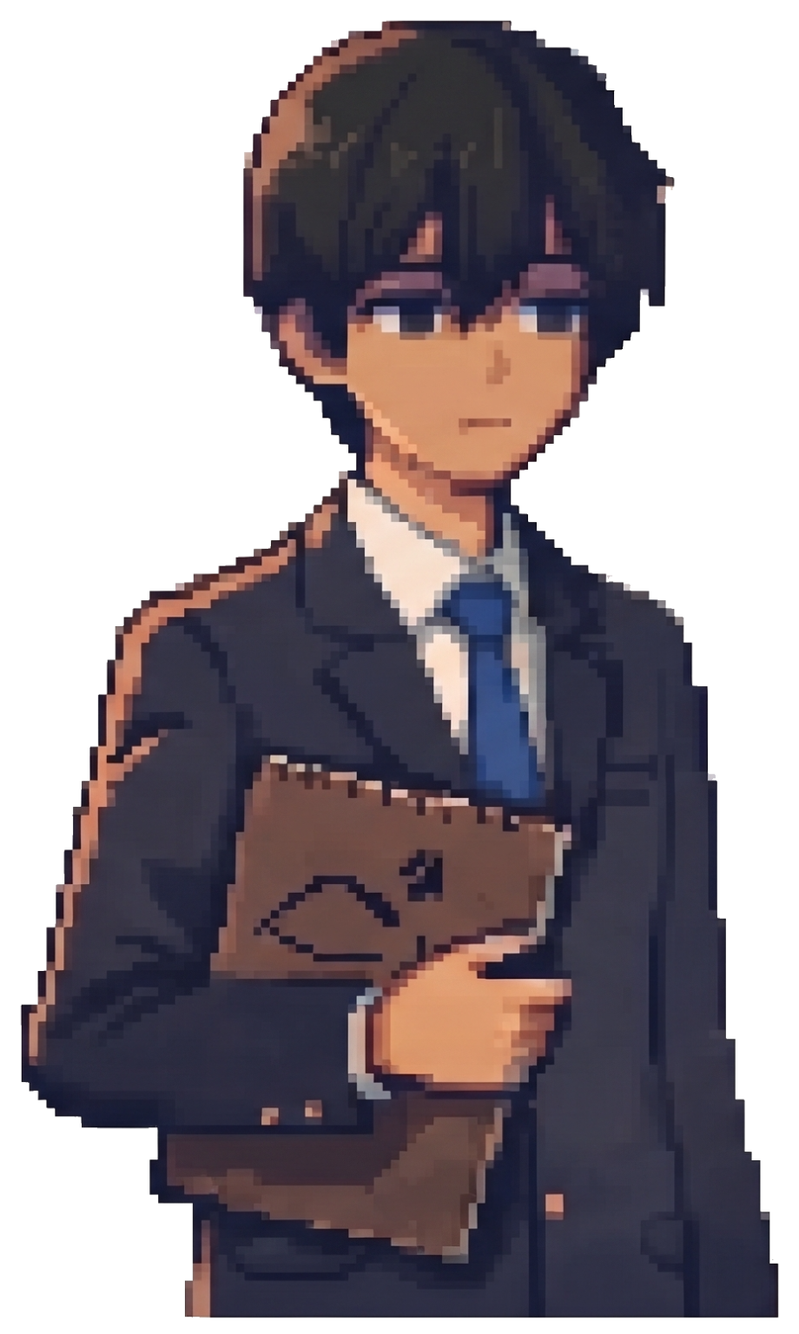
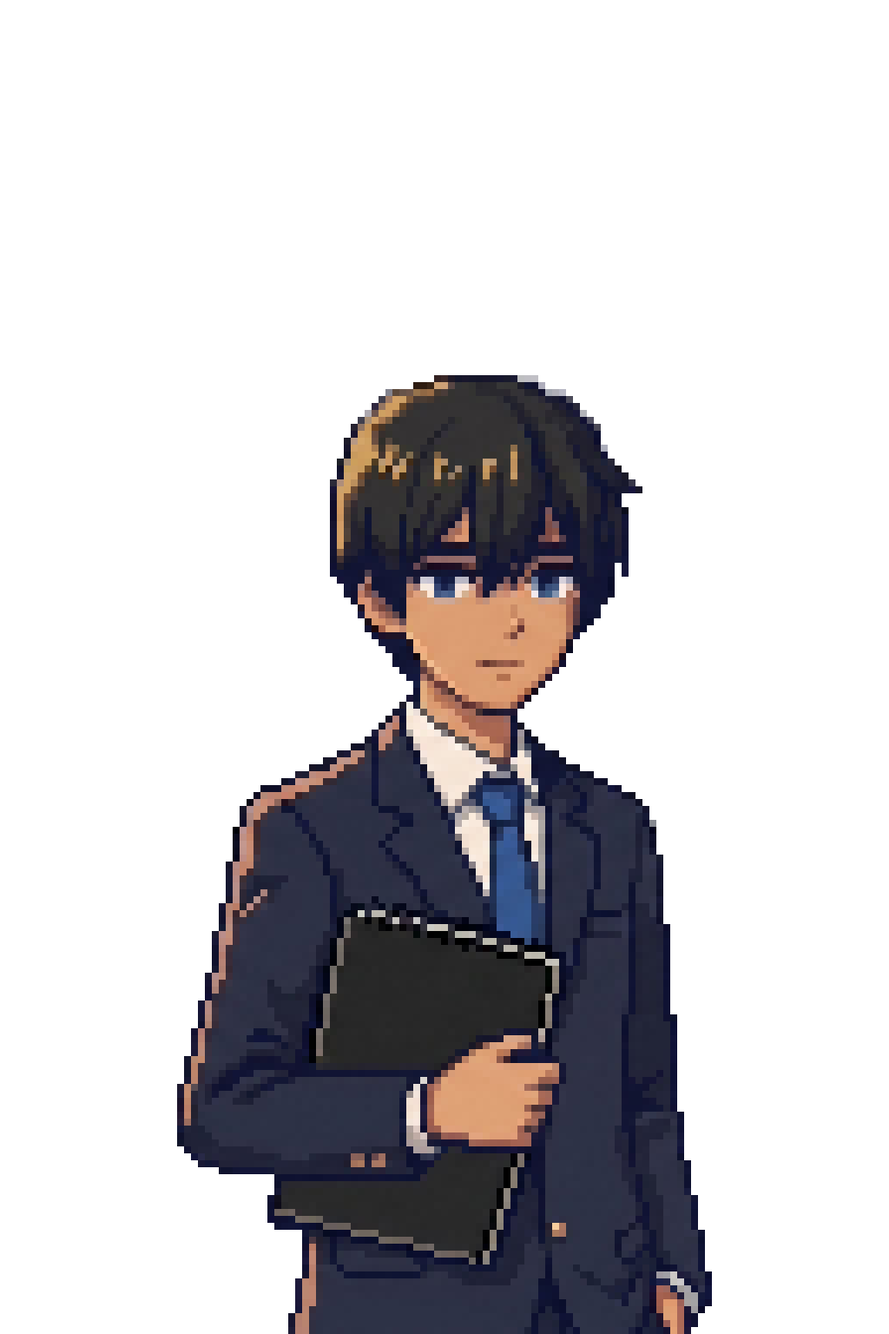
新しい立ち絵・ユメクイ・夢の住人の絵を入れ、バトルを「見わたす絵」と「寄った絵」に分ける
- 立ち絵 53 枚 (ハル・リク・ミオ・カナ・アキ先生・父・リクの父・ミチル・ヒカリ) と
  ユメクイ (bak.png・gakufume.png)、夢の住人 (女王ミオ・審査員カナ・ハルの人形) の絵を入れる
- ハルの泣き顔は入れない (古い haru_cry.png を消す)。描いていない表情は neutral で出す
- 父 = haru_father、リクの父 = riku_father。ユメクイは img/yumekui/<id>.png
- 新しい立ち絵は上が空いているので、大きめに出して頭の高さをそろえる
- バトル: 始まりとコマンド選択中は全員を見わたす絵 (控えの仲間も後ろに小さく、ねらう敵に印)、
  技や攻撃のあいだは仲間 1 体とねらった敵 1 体に寄る。バクとガクフメは大きい絵で出す

diff --git a/src/view/draw.js b/src/view/draw.js
@@ -268,15 +268,82 @@ function drawHal(ctx, state, px, py, walk) {
     ctx.restore();
 }
 
+// バトルの 絵 (11/12 ユーザー指定):
+//   ・始まりと コマンドを 選んでいる あいだは 全員を 見わたす 絵 (view.focus = null)。
+//     左に 仲間 (前に 出ている 1 体を 大きく、控えは 後ろに 小さく)、右に 敵を 並べる
+//   ・技や 攻撃の あいだは 仲間 1 体と 敵 1 体 (ねらった 敵) だけを 大きく 映す (view.focus = 敵の 番号)
 export function drawBattle(ctx, view, time) {
     drawSky(ctx, time);
+    if (view.focus == null) drawOverview(ctx, view, time);
+    else drawCloseUp(ctx, view, time);
+
+    for (const pop of view.pops) {
+        const left = (pop.until - time) / 700;
+        if (left <= 0) continue;
+        const at = popAnchor(view, pop);
+        ctx.fillStyle = pop.color;
+        ctx.font = 'bold 14px sans-serif';
+        ctx.textAlign = 'center';
+        ctx.fillText(pop.text, at.x, at.y - (1 - left) * 18);
+    }
+}
+
+// 描いた 大きい 絵 (public/img)。読み込めるまでは ドット絵で 描く。faces = 絵の 向き
+const HD_ART = {
+    bak: { src: 'img/yumekui/bak.png', faces: 'left' },
+    gakufume: { src: 'img/yumekui/gakufume.png', faces: 'front' }
+};
+const hdCache = new Map();
+function hdArt(name) {
+    const art = HD_ART[name];
+    if (!art || typeof Image === 'undefined') return null;
+    if (!hdCache.has(name)) {
+        const image = new Image();
+        image.src = art.src;
+        hdCache.set(name, image);
+    }
+    const image = hdCache.get(name);
+    return image.complete && image.naturalWidth ? { image, faces: art.faces } : null;
+}
+
+// 控えの 仲間 (前に 出ている 1 体 以外)
+function benchOf(view) {
+    return (view.party ?? []).filter((unit) => unit.sprite !== view.ally);
+}
+
+// 絵を 箱に 収まる 大きさに する。ドット絵は 0.5 きざみで 拡大 (most 倍まで)
+function fit(image, maxW, maxH, pixel, most = 4) {
+    const w = image.naturalWidth || image.width;
+    const h = image.naturalHeight || image.height;
+    let scale = Math.min(maxW / w, maxH / h, pixel ? most : 1);
+    if (pixel && scale >= 1) scale = Math.floor(scale * 2) / 2;
+    return { w: Math.round(w * scale), h: Math.round(h * scale) };
+}
+
+function drawFloorShadow(ctx, x, y, rx, ry) {
     ctx.fillStyle = 'rgba(10, 12, 48, 0.55)';
     ctx.beginPath();
-    ctx.ellipse(205, 132, 90, 16, 0, 0, Math.PI * 2);
-    ctx.ellipse(70, 158, 60, 12, 0, 0, Math.PI * 2);
+    ctx.ellipse(x, y, rx, ry, 0, 0, Math.PI * 2);
     ctx.fill();
+}
 
-    // 敵: 1 体なら まん中、複数なら 横に 並べる (倒れた 敵は 消える)
+// 見わたす 絵: 全員を 小さめに
+function drawOverview(ctx, view, time) {
+    drawFloorShadow(ctx, 205, 132, 90, 16);
+    drawFloorShadow(ctx, 62, 160, 60, 12);
+
+    // 控えの 仲間: 後ろに 小さく、少し 暗く (倒れた 仲間は もっと 暗く)
+    benchOf(view).forEach((unit, i) => {
+        const image = sprite(unit.sprite);
+        const size = fit(image, 36, 30, true, 2);
+        ctx.save();
+        ctx.globalAlpha = unit.hp > 0 ? 0.8 : 0.35;
+        drawFloorShadow(ctx, 26 + i * 44, 98, 18, 4);
+        ctx.drawImage(image, Math.round(26 + i * 44 - size.w / 2), 98 - size.h, size.w, size.h);
+        ctx.restore();
+    });
+
+    // 敵: 1 体なら まん中、複数なら 横に 並べる (倒れた 敵は 消える)。ねらっている 敵の 下に 印
     view.foes.forEach((name, i) => {
         if (view.down[i]) return;
         const foe = sprite(name);
@@ -285,22 +352,59 @@ export function drawBattle(ctx, view, time) {
         const shake = view.foeHit[i] > time ? Math.sin(time / 20) * 4 : 0;
         const y = 130 - foe.height * scale + Math.sin(time / 500 + i) * 2;
         ctx.drawImage(foe, Math.round(foeX(view, i) - (foe.width * scale) / 2 + shake), Math.round(y), foe.width * scale, foe.height * scale);
+        if (many && i === view.target) {
+            const x = Math.round(foeX(view, i));
+            ctx.fillStyle = '#ffc95e';
+            ctx.beginPath();
+            ctx.moveTo(x - 4, 136);
+            ctx.lineTo(x + 4, 136);
+            ctx.lineTo(x, 141);
+            ctx.fill();
+        }
     });
 
-    // 仲間: 大きい絵 (幅 24 ドットより 大きい) は 3 倍で、敵と 重ならないように する
-    const bak = sprite(view.ally);
-    const bakShake = view.allyHit > time ? Math.sin(time / 20) * 4 : 0;
-    const allyScale = bak.width > 24 ? 3 : 4;
-    ctx.drawImage(bak, Math.round(26 + bakShake), 172 - bak.height * allyScale, bak.width * allyScale, bak.height * allyScale);
+    // 前に 出ている 仲間: 手前の 左。敵と 重ならない 幅に 収める
+    const ally = sprite(view.ally);
+    const size = fit(ally, 84, 72, true);
+    const shake = view.allyHit > time ? Math.sin(time / 20) * 4 : 0;
+    ctx.drawImage(ally, Math.round(20 + shake), 166 - size.h, size.w, size.h);
+}
 
-    for (const pop of view.pops) {
-        const left = (pop.until - time) / 700;
-        if (left <= 0) continue;
-        ctx.fillStyle = pop.color;
-        ctx.font = 'bold 14px sans-serif';
-        ctx.textAlign = 'center';
-        ctx.fillText(pop.text, pop.x, pop.y - (1 - left) * 18);
+// 寄った 絵: 仲間 1 体 (左) と 敵 1 体 (右) を 大きく
+function drawCloseUp(ctx, view, time) {
+    drawFloorShadow(ctx, 236, 140, 70, 12);
+    drawFloorShadow(ctx, 80, 168, 66, 12);
+
+    const i = view.focus;
+    if (!view.down[i] && view.foes[i]) {
+        const hd = hdArt(view.foes[i]);
+        const image = hd?.image ?? sprite(view.foes[i]);
+        const size = fit(image, 150, 116, !hd, 6);
+        const shake = view.foeHit[i] > time ? Math.sin(time / 20) * 4 : 0;
+        const y = 138 - size.h + Math.sin(time / 500 + i) * 2;
+        ctx.drawImage(image, Math.round(236 - size.w / 2 + shake), Math.round(y), size.w, size.h);
     }
+
+    const hd = hdArt(view.ally);
+    const image = hd?.image ?? sprite(view.ally);
+    const size = fit(image, 140, 110, !hd, 6);
+    const shake = view.allyHit > time ? Math.sin(time / 20) * 4 : 0;
+    const x = Math.round(80 - size.w / 2 + shake);
+    const y = 166 - size.h;
+    ctx.save();
+    if (hd?.faces === 'left') {   // 仲間は 右 (敵の ほう) を 向く
+        ctx.translate(x + size.w, 0);
+        ctx.scale(-1, 1);
+        ctx.drawImage(image, 0, y, size.w, size.h);
+    } else ctx.drawImage(image, x, y, size.w, size.h);
+    ctx.restore();
+}
+
+// 数字の 出る 場所 (仲間か 敵か と、今の 絵で 決める)。pop.foe = 敵の 番号 (仲間なら 無し)
+function popAnchor(view, pop) {
+    if (pop.foe == null) return view.focus == null ? { x: 62, y: 92 } : { x: 80, y: 70 };
+    if (view.focus == null) return { x: foeX(view, pop.foe), y: pop.high ? 40 : 60 };
+    return { x: 236, y: pop.high ? 22 : 40 };
 }
 
 // 敵の 横の 位置 (1 体なら 205、複数なら 並べる)

diff --git a/src/main.js b/src/main.js
@@ -19,7 +19,7 @@ import { ALLIES, FOES } from './data/units.js';
 import { LINES } from './scenes/story.js';
 import { createInput } from './view/input.js';
 import { createUi } from './view/ui.js';
-import { drawBattle, drawField, drawMorning, drawShadow, drawSky, foeX } from './view/draw.js';
+import { drawBattle, drawField, drawMorning, drawShadow, drawSky } from './view/draw.js';
 import { drawCalendar, drawLapse } from './view/time.js';
 import { drawEncounter, encounterTheme } from './view/encounter.js';
 import { createPainting, drawPainting, finishPainting, updatePainting } from './view/painting.js';
@@ -514,12 +514,15 @@ async function fight(object) {
     jinglePlaying = null;   // 前の 戦闘の 短い曲が 残っていたら 止めて、戦闘の 曲へ
     sound.stopJingles();
     mode = 'battle';
-    battleView = { foes: foeList.map((f) => f.sprite), foeIds: foeList.map((f) => f.id), down: [], ally: battle.ally.sprite, foeHit: [], allyHit: 0, pops: [] };
+    battleView = { foes: foeList.map((f) => f.sprite), foeIds: foeList.map((f) => f.id), down: [], ally: battle.ally.sprite, party: battle.party, focus: null, target: battle.foe?.index ?? 0, foeHit: [], allyHit: 0, pops: [] };
     ui.hideHud();
     ui.status(battle);
     await ui.fade(false);
 
     while (!battle.over) {
+        // コマンドを 選ぶ あいだは 全員を 見わたす 絵
+        battleView.focus = null;
+        battleView.target = battle.foe?.index ?? 0;
         const names = aliveFoes(battle).map((f) => f.name).join('と');
         await ui.say('', `${names}が 立ちはだかる。どうする？`, { wait: 0 });
         // たたかう / まもる / アイテム / にげる。技は「たたかう」の中から 選ぶ
@@ -530,7 +533,11 @@ async function fight(object) {
         if (top === 'guard') events = act(battle, 'guard');
         if (top === 'item') events = await chooseItem(battle);
         if (top === 'run') events = act(battle, 'run');
-        if (events) await play(battle, events);
+        if (events) {
+            // 技や 攻撃の あいだは 仲間 1 体と ねらった 敵 1 体に 寄る
+            battleView.focus = battle.foe?.index ?? 0;
+            await play(battle, events);
+        }
     }
 
     // 勝ち・負け: 戦闘が 終わった その場で 戦闘の 曲を 止めて 短い曲 (M25 / M26)。場面の 曲は 鳴り終わってから
@@ -609,10 +616,13 @@ async function play(battle, events) {
     for (const event of events) {
         battleSound(event);
         if (event.t === 'swap') battleView.ally = event.sprite;
+        // 寄った 絵で 映す 敵: 攻撃を 受けた 敵、または 攻撃してきた 敵
+        if (event.t === 'hit' && event.target === 'foe' && event.index != null) battleView.focus = event.index;
+        if (event.t === 'hit' && event.target === 'ally' && event.from != null) battleView.focus = event.from;
         if (event.t === 'say') await ui.say('', event.text, { wait: NOTE_MS });
         if (event.t === 'hit') showHit(event);
-        if (event.t === 'heal') pop(`+${event.amount}`, 70, 92, '#7fe0a8');
-        if (event.t === 'shake') pop(`ゆらぎ +${event.gain}`, foeX(battleView, event.index ?? 0), 40, '#ffc95e');
+        if (event.t === 'heal') pop(`+${event.amount}`, null, '#7fe0a8');
+        if (event.t === 'shake') pop(`ゆらぎ +${event.gain}`, event.index ?? 0, '#ffc95e', true);
         if (event.t === 'chance') await ui.say('', `${event.name}の気持ちが 大きく揺れている！ 本音を言い当てるチャンスだ！（「たたかう」から 選べる）`, { wait: NOTE_MS * 2 });
         if (event.t === 'down') {
             battleView.down[event.index] = true;
@@ -646,11 +656,12 @@ function showHit(event) {
     if (isFoe) battleView.foeHit[event.index ?? 0] = now + 300;
     else battleView.allyHit = now + 300;
     const color = event.aff > 1 ? '#ffc95e' : '#ffffff';
-    pop(String(event.amount), isFoe ? foeX(battleView, event.index ?? 0) : 70, isFoe ? 60 : 92, color);
+    pop(String(event.amount), isFoe ? event.index ?? 0 : null, color);
 }
 
-function pop(text, x, y, color) {
-    battleView.pops.push({ text, x, y, color, until: performance.now() + 700 });
+// 数字を 出す。foe = 敵の 番号 (仲間なら null)、high = 上の ほうに 出す。場所は 今の 絵で 決まる (view/draw.js)
+function pop(text, foe, color, high = false) {
+    battleView.pops.push({ text, foe, high, color, until: performance.now() + 700 });
 }
 
 async function finish(battle, object, foe) {

diff --git a/src/core/portraits.js b/src/core/portraits.js
@@ -1,8 +1,8 @@
 // 会話の 立ち絵 (仕様書「会話画面」11/11 決定): 一度に 2 人まで。
 //   左 = 主人公の側 (ハル、または バクや 救った仲間)、右 = 話している 相手 (左右反転して 左向き)。
 //   絵の ファイル名は 素材制作仕様書「置き場所とファイル名」: 人は img/chara/<名前>_<表情>.png、
-//   ユメクイは img/yumekui/<id>_normal.png。ファイルが 無い人は 出さない
-export const EXPRESSIONS = ['neutral', 'smile', 'troubled', 'angry', 'cry', 'surprised'];
+//   ユメクイは img/yumekui/<id>.png、夢の住人は img/enemy/<id>.png。絵の 無い人は 出さない
+export const EXPRESSIONS = ['neutral', 'smile', 'troubled', 'angry', 'cry', 'surprised', 'sad', 'frustrated', 'cloudy', 'silent', 'eroded', 'guide', 'resolve', 'profile', 'profile_kizuna'];
 
 // セリフの 話し手の 名前 → 絵の 名前
 export const CHARA_FILES = {
@@ -10,7 +10,8 @@ export const CHARA_FILES = {
     'リク': 'riku',
     'ミオ': 'mio',
     'カナ': 'kana',
-    '父': 'father',
+    '父': 'haru_father',
+    'リクの父': 'riku_father',
     'トメ': 'tome',
     'ケン': 'ken',
     'アキ先生': 'aki',
@@ -18,11 +19,30 @@ export const CHARA_FILES = {
     'ミチル': 'michiru',
     'ヒカリ': 'hikari'
 };
+
+// 描いてある 表情 (11/12 の 立ち絵)。ここに 無い 表情は neutral で 出す。
+//   ハルの 泣き顔 (cry) は ゲームに 入れない (11/12 ユーザー指定)
+export const FACES = {
+    haru: ['neutral', 'smile', 'troubled', 'angry', 'surprised', 'profile', 'profile_kizuna'],
+    riku: ['neutral', 'smile', 'troubled', 'angry', 'cry', 'surprised', 'profile', 'profile_kizuna'],
+    mio: ['neutral', 'smile', 'troubled', 'angry', 'surprised', 'profile', 'profile_kizuna'],
+    kana: ['neutral', 'smile', 'angry', 'surprised', 'frustrated', 'profile', 'profile_kizuna'],
+    aki: ['neutral', 'smile', 'angry', 'surprised', 'cloudy'],
+    haru_father: ['neutral', 'smile', 'silent'],
+    riku_father: ['neutral', 'smile', 'sad'],
+    hikari: ['neutral', 'smile', 'angry', 'surprised', 'sad'],
+    michiru: ['neutral', 'smile', 'surprised', 'sad', 'eroded', 'guide', 'resolve']
+};
+
 export const YUMEKUI_FILES = {
     'バク': 'bak',
-    'ガクフメ': 'gakufume',
-    'トゲメトロ': 'togemetoro',
-    'ヒマワリオン': 'himawarion'
+    'ガクフメ': 'gakufume'
+};
+// 夢の 住人 (階層で 話しかける ゆがんだ 夢主)
+export const RESIDENT_FILES = {
+    '独奏の女王ミオ': 'queen_mio',
+    '審査員カナ': 'judge_kana',
+    'ハルの人形': 'haru_doll'
 };
 const ALLY_IDS = { 'ガクフメ': 'gakufume', 'トゲメトロ': 'togemetoro', 'ヒマワリオン': 'himawarion' };
 
@@ -34,10 +54,23 @@ export function isHeroSide(name, allies = []) {
 
 // 絵の 場所 (無い 名前は null)
 export function portraitPath(name, expression = 'neutral') {
-    const face = EXPRESSIONS.includes(expression) ? expression : 'neutral';
-    if (CHARA_FILES[name]) return `img/chara/${CHARA_FILES[name]}_${face}.png`;
-    if (YUMEKUI_FILES[name]) return `img/yumekui/${YUMEKUI_FILES[name]}_normal.png`;
+    const file = CHARA_FILES[name];
+    if (file) {
+        const faces = FACES[file];
+        if (!faces) return null;
+        return `img/chara/${file}_${faces.includes(expression) ? expression : 'neutral'}.png`;
+    }
+    if (YUMEKUI_FILES[name]) return `img/yumekui/${YUMEKUI_FILES[name]}.png`;
+    if (RESIDENT_FILES[name]) return `img/enemy/${RESIDENT_FILES[name]}.png`;
     return null;
+}
+
+// 絵の 種類 (表示の 大きさを 変える): 人 / ユメクイ / 夢の住人
+export function portraitKind(path) {
+    if (!path) return null;
+    if (path.startsWith('img/yumekui/')) return 'yumekui';
+    if (path.startsWith('img/enemy/')) return 'resident';
+    return 'chara';
 }
 
 // 会話の 始めは だれも いない (地の文だけの 場面では 立ち絵を 出さない)

diff --git a/src/style.css b/src/style.css
@@ -118,6 +118,16 @@ canvas {
 .portrait[hidden] { display: none; }
 #portrait-left { left: 1%; }
 #portrait-right { right: 1%; transform: scaleX(-1); }
+/* 11/12 の 立ち絵 (1024×1536) は 上の 3 割ほどが 空いているので、大きめに 出して 頭の 高さを そろえる。
+   体の 下の ほうは メッセージ枠の 後ろに 隠れる */
+.portrait[data-kind="chara"] { height: 112%; bottom: -8%; }
+#portrait-left[data-kind="chara"] { left: -6%; }
+#portrait-right[data-kind="chara"] { right: -6%; }
+/* ユメクイと 夢の住人は 横長。メッセージ枠の 上に 乗せる */
+.portrait[data-kind="yumekui"] { height: auto; width: 34%; bottom: 30%; }
+#portrait-left[data-kind="yumekui"] { transform: scaleX(-1); }   /* バクの 絵は 左向き。左に 立つときは 右 (相手) を 向く */
+#portrait-right[data-kind="yumekui"] { transform: none; }
+.portrait[data-kind="resident"] { height: 62%; bottom: 28%; }
 
 #speaker {
     color: var(--kokoro);

diff --git a/src/view/ui.js b/src/view/ui.js
@@ -1,3 +1,5 @@
+import { portraitKind } from '../core/portraits.js';
+
 const $ = (id) => document.getElementById(id);
 const TYPE_MS = 28;
 
@@ -110,6 +112,7 @@ export function createUi(input, sounds = {}) {
             const who = stage?.[side];
             const path = who ? pathOf(who.name, who.expression) : null;
             el.dataset.want = path ?? '';
+            el.dataset.kind = portraitKind(path) ?? '';
             if (!path || missing.has(path)) {
                 el.hidden = true;
                 continue;

diff --git a/README.md b/README.md
@@ -13,8 +13,9 @@
 | 曲 | `public/audio/bgm/` | `M06_town.ogg`（同じ名前の `.mp3` も）。一覧は `src/data/sounds.js` |
 | 効果音 | `public/audio/se/` | `SE21_hit.ogg` など |
 | セリフの声 | `public/audio/voice/` | `haru.ogg`・`narration.ogg` など |
-| 立ち絵（キャラ） | `public/img/chara/` | `haru_neutral.png`（表情は neutral・smile・troubled・angry・cry・surprised）、横顔は `haru_profile.png`。背景が透明の PNG |
-| 立ち絵（ユメクイ） | `public/img/yumekui/` | `gakufume_normal.png`・`gakufume_scream.png`・`gakufume_saved.png` など |
+| 立ち絵（キャラ） | `public/img/chara/` | `haru_neutral.png`・`haru_father_smile.png`・`riku_father_sad.png` など。1024×1536、背景が透明の PNG。描いてある表情は `src/core/portraits.js` の FACES（無い表情は neutral で出る。ハルの泣き顔は入れない） |
+| 立ち絵（ユメクイ） | `public/img/yumekui/` | `bak.png`・`gakufume.png`。会話の立ち絵と、バトルで寄ったときの大きい絵に使う |
+| 夢の住人 | `public/img/enemy/` | `queen_mio.png`（独奏の女王ミオ）・`judge_kana.png`（審査員カナ）・`haru_doll.png`（ハルの人形）。話しかけたときの立ち絵 |
 | 背景の絵 | `public/img/bg/` | `haru_dream.jpg`（ハルの夢『顔色の坂道』）。仕様書にない置き場所なので、使い方はこれから決める |
 
 AI で作った元のファイルや資料（PDF・Word）は、リポジトリの外の `my-project/ユメクイ資料/` に置いています（`04_素材の原本/` が作ったままのファイル）。
@@ -73,6 +74,7 @@ npm run dev
   - 終幕の戦いは、負けても相手が少し弱って、もう一度挑めます。`node tools/ending-test.mjs <URL> <画像フォルダ>` で3つのエンディングを確かめられます
 - **夢の階層**：ミオとカナの夢は 3 階層＋最深部、二重奏ホールは 4 階層＋最深部です。今までの地図が第 1 層で、奥の階段から下の層へ下ります。どの層も入口に毛布と光る扉があり、1 層に部屋が 3〜5 つ（右上に部屋の名前）。下の層ほど敵が強く（1 層ごとに＋15%、ボスは＋10%）、経験値も多くなります（1＋0.25×（層−1）倍）。層を下りても体力は回復しません（毛布で回復）。ボスは最深部にいます。たどり着いた層はその周のあいだ覚えていて、次の夜から「どこから はじめる？」で選べます（`src/data/layers.js`）
 - **レベルとユメポイント**：戦いに勝つ（本音を届ける・喰らうも同じ）と経験値が入り、仲間はレベル1〜50で強くなります（パーティの3体はそのまま、控えは半分）。レベルはループで1に戻ります。バクだけがレベルアップでユメポイント（YP）をもらい、夢の毛布か夜のハルの部屋で、ステータス強化（1段＋5%、10段まで）とYPの技10種（ねぼけまなこ〜悪食。後半4つは救った夢・喰らった夢の数で解禁）に使えます。YPと使い道はループしても残ります。ガクフメとトゲメトロはレベル8・16・25で技を覚えます。メニューの「なかま」で育成画面を開けます（`src/core/level.js`・`src/data/growth.js`・`src/view/grow.js`）
+- 戦闘の画面は2つ。始まりとコマンドを選んでいるあいだは全員を見わたす絵（仲間は前の1体を大きく、控えは後ろに小さく、敵は横に並び、ねらう敵の下に印）。技や攻撃のあいだは仲間1体とねらった敵1体（敵の攻撃のときは攻撃してきた敵）に寄って大きく映します。バクとガクフメは描いた大きい絵で出ます（`src/view/draw.js`）
 - 戦闘のコマンドは たたかう・まもる・アイテム・にげる。技は たたかう の中から選びます。敵は複数のこともあり、ねらう敵を選べます。ふつうの敵からは逃げられます（ボスと最初の戦いは逃げられない）
 - 戦闘に入るときは、その夢に合わせた演出のあと戦闘画面に移ります（ハルの夢はお面が迫る、ミオの夢は泡がわき上がる、カナの夢はメトロノームと迫る壁。ボスは長く、画面が揺れる）
 - 時間が過ぎていく演出（町の上の空が 朝 → 昼 → 放課後 → 夕方 → 夜 と変わる）と、1日が終わると壁のカレンダーが1枚はがれて次の日になる演出があります（Aボタンで飛ばせます）
@@ -81,7 +83,7 @@ npm run dev
 - 夜はハルの部屋を歩けます。キャンバスを調べて描いた夢にだけ入れます。描かずに寝るか、ベッドで眠ると朝になります。玄関から夜の町へ出ることもでき、その夜は夢に入りません（夜の町には人がいません）
 - 14日の夜を過ぎると、2月1日の朝に戻ります（プロローグとハルの夢はくり返しません）
 - **曲と効果音**（段階5）：曲は番号（M01〜M24）で呼び、場面に合わせて自動で切り替わります（タイトル M01、夢ごとの曲、放課後 M06、夜の部屋 M07、ボスごとの曲、追われると M15、ループ M17、エンディング M20〜M22。救うと M18、喰らうと曲が止まって M19）。**音のファイルはまだ入っていないので、今は無音です。** `public/audio/bgm/M06_town.ogg`（同じ名前の `.mp3` も）のように、素材制作仕様書の名前で置けばそのまま鳴ります。効果音は `public/audio/se/SE21_hit.ogg`、セリフの声は `public/audio/voice/haru.ogg` など。名前の一覧は `src/data/sounds.js`、どの場面でどの曲かは `src/core/music.js` です。町の曲（`M06_mio` など）とノーマルED（`M21_mio` など）はパートを別のファイルで置くと、喰らった人・救えなかった人のパートが鳴らなくなります。町の曲は周回ごとにテープのようにゆれます（最終周は消える）。メニューとタイトルの「音の設定」で、曲・効果音・声の音量とホラー演出（ふつう／ひかえめ）を変えられます
-- **会話の立ち絵**：会話に立ち絵を一度に2人まで出します。左が主人公の側（ハル、またはバクや救った仲間）、右が話している相手（左右反転して左向き）。地の文だけの場面では出しません。絵は `public/img/chara/<名前>_<表情>.png`（ユメクイは `public/img/yumekui/<id>_normal.png`）で、まだ絵の無い人は出ません（今はハルだけ）。セリフに3つ目を書くと表情が変わります（`['ハル', '……', 'troubled']`）。名前と絵の対応は `src/core/portraits.js`
+- **会話の立ち絵**：会話に立ち絵を一度に2人まで出します。左が主人公の側（ハル、またはバクや救った仲間）、右が話している相手（左右反転して左向き）。地の文だけの場面では出しません。絵は `public/img/chara/<名前>_<表情>.png`（ユメクイは `public/img/yumekui/<id>.png`、夢の住人は `public/img/enemy/`）で、まだ絵の無い人（トメ・ケン・リクの母）は出ません。11/12 の立ち絵は上が空いているので、大きめに出して頭の高さをそろえています（`src/style.css`）。セリフに3つ目を書くと表情が変わります（`['ハル', '……', 'troubled']`）。名前と絵の対応は `src/core/portraits.js`
 - **土日の昼のバイト**：土日の昼、商店街のトメの駄菓子屋で「店番」か「荷運び」を手伝えます（じっくり話すと同じく1日1回、終わると夕方になって家に帰る）。お礼は駄菓子（店番1つ・荷運び2つ）で、バトルの「アイテム」で前の仲間の体力が最大の35%もどります。店番ではお客さんから、物語の進み具合に合った話が聞けます。駄菓子はループすると消えます（`src/core/job.js`）
 - **夢の深い層の言葉と橋**：ミオの夢の第2層・カナの夢の第2層・二重奏ホールの第2層に裂け目があり、夢筆で「橋」（学校の渡り廊下の手すりで覚える）を描くと渡れて、奥で言葉（一緒に／相談して）を拾えます。二重奏ホールの第3層の右の譜面室にも「相談して」があります。同じ言葉を別の場所で拾っても1つです
 - **演出スクリプト**（段階5）：ムービーは命令のリストとして `src/scenes/movies.js` に書き、`src/view/movie.js` で流します（絵を出す・動かす・拡大・コマ送り・揺らす・暗くする・色を抜く・字幕・文字・曲・効果音・待つ・今ある演出を呼ぶ）。決定ボタンの長押しで飛ばせ、飛ばしても最後まで見たときと同じ状態で次に進みます。2回目からは短い版（あれば）。今は「に が さ な い」をこの仕組みで流しています。MV01〜MV11 は新しいドット絵を描きながら足していきます
